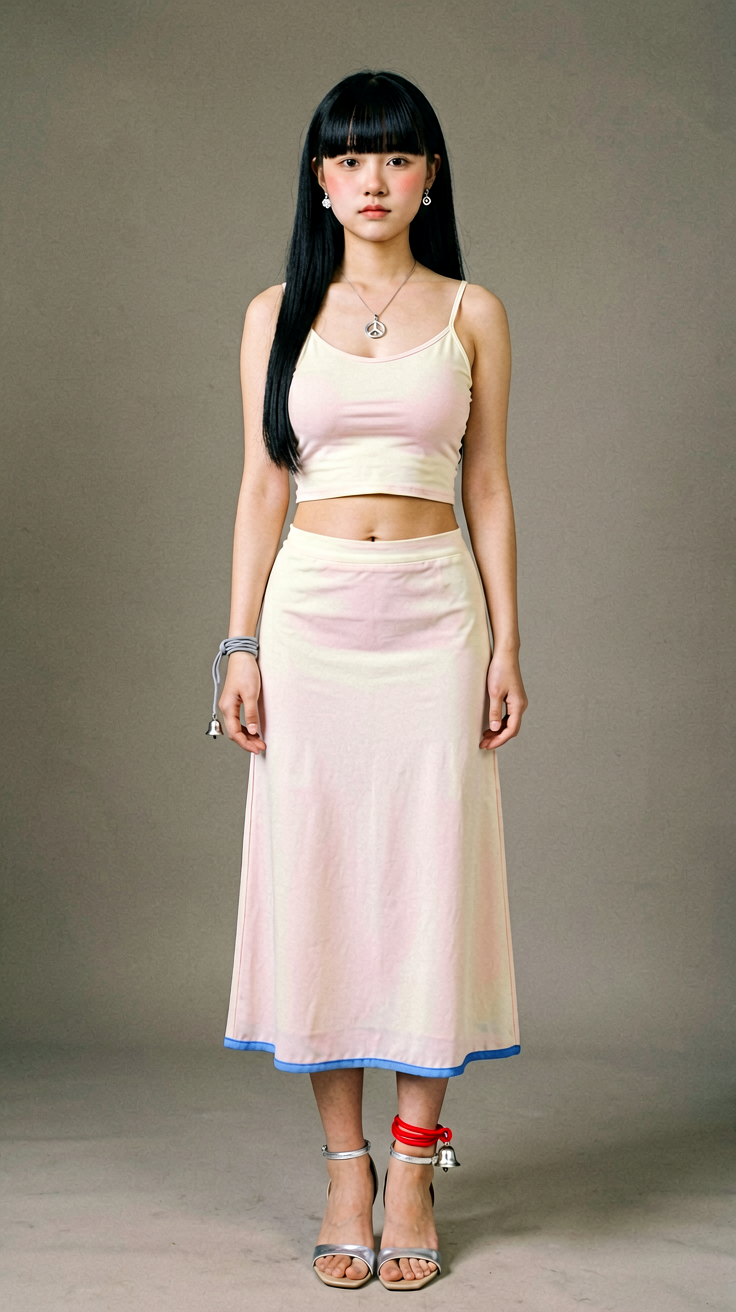
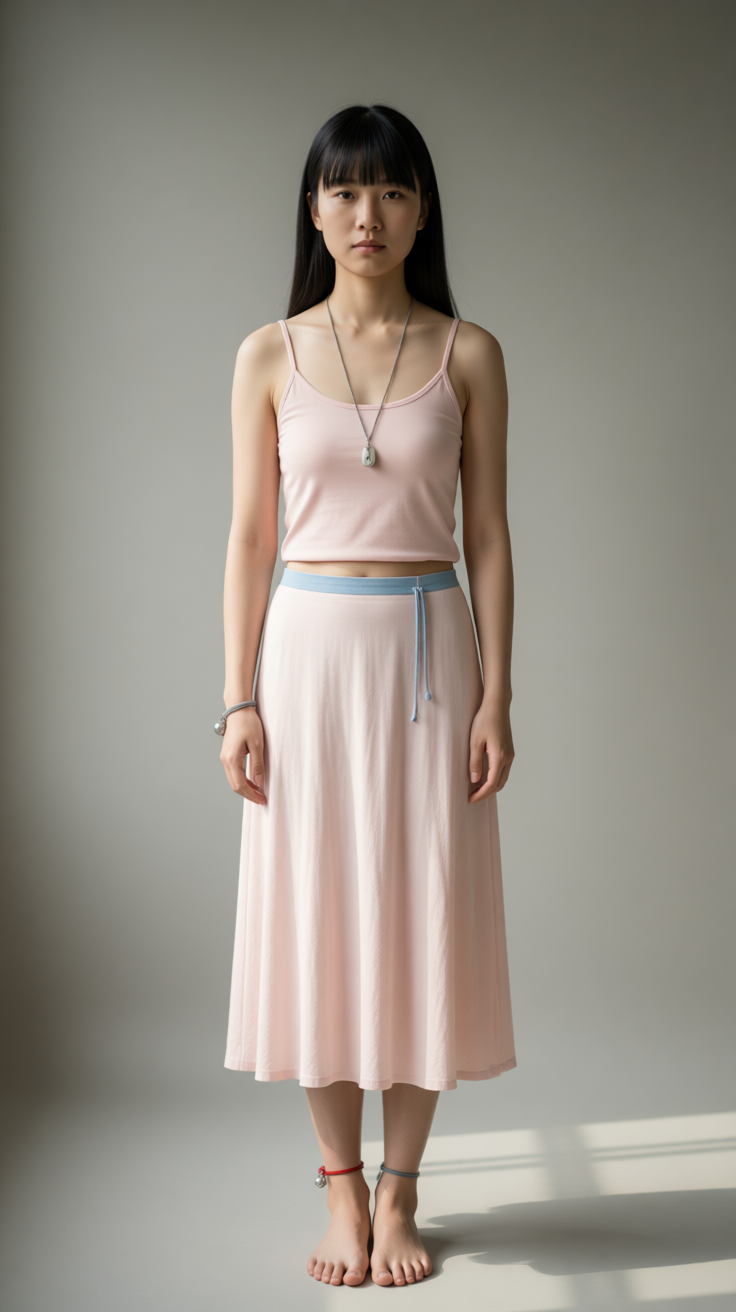
定妆照：吴依依_v3 定稿（粉白小吊带+粉白长裙蓝边+银露趾3cm细跟；左脚踝鲜红细绳恰缠一圈挂珍珠级银铃，右手腕光绳无铃；脸部圆润贴合参考）；角色视觉设定卡同步更新吴依依妆造锚定词

diff --git a/01_大纲/狐渡_角色视觉设定.md b/01_大纲/狐渡_角色视觉设定.md
@@ -66,21 +66,20 @@
 ## 吴依依（苗女）
 
 **长相（固定词）**
-> 20 岁前后南方苗家姑娘，清冷安静，**苗装简化版**（不做廉价民族服堆料：素色长裙＋少量银饰/蜡染纹样即可），话极少（全剧只 2 句台词）
+> 20 岁前后南方苗家姑娘，清冷安静，圆润软脸（宽颊、小鼻、齐刘海），皮肤白净不精致；**苗装简化版**（不做廉价民族服堆料：素色长裙＋少量银饰/蜡染纹样即可），话极少（全剧只 2 句台词）
 
 **锚物（记忆点，高清必给）**
 - **脚踝红绳系小铃**（她的登场暗号；响度纪律全季 3 次：E10 远景一声/E21 足部特写/E22 最响一响即止——画面里铃必须清晰可见；铃为珍珠级约 0.8cm，清晰但绝不抢镜）
 - 腕上细绳（虫影＝烛光绳影错觉，**永不给真虫画面**）
 
 **妆造锚定词（出图固定规格，勿漂移）**
-- 发型：**齐刘海＋双侧直发垂到胸前（发在身前，不甩背后）**（无辫无髻，以定妆照 `吴依依.png` 为准）
-- 服装（上下两截，全黑）：**黑色无袖上衣（双肩/两臂整个露出，V 领，V 口蓝色包边）** ＋ **黑色长裙，下摆蓝色包边宽约 10cm**（露出 155cm/80 斤的瘦小体型）
+- 发型：**齐刘海＋双侧直发垂到胸前（发在身前，不甩背后）**（无辫无髻，以定妆照 `吴依依_v3.png` 为准）
+- 服装（上下两截，粉白两色）：**粉白色小吊带背心（细肩带双肩/两臂整个露出，保守圆领，到自然腰线收，露出一段平坦小腹）** ＋ **粉白色长裙，下摆蓝色包边宽约 10cm**（露出 155cm/80 斤的瘦小体型，D 罩杯）
 - 银饰：少量旧哑光——小银耳环＋**银质平安锁挂坠（短细链，锁头挂在胸前上方不垂长）**，不堆料
-- 腕绳：**一只手腕系一根旧布细绳，绳上不挂铃铛/饰物（光绳）**（虫影锚物）
-- 腕绳：**一只手腕系一根旧布细绳**（虫影锚物），无手镯无手表
-- 凉鞋：**黑色高级感细带高跟凉鞋（露趾款，3cm 细跟，小脚趾清晰可见，不遮挡脚趾）**，34 码小脚
-- 体态：全身帧正常站立；行走帧**一脚落地自然步态**，不悬浮
-- 红绳：**只系左脚脚踝**（右脚光素无绳无铃）
+- 腕绳：**一只手腕系一根旧布细绳，绳上无铃铛/饰物/流苏（光绳）**（虫影锚物），无手镯无手表
+- 凉鞋：**银色细带高跟凉鞋（露趾款，3cm 细跟，小脚趾清晰可见，不遮挡脚趾）**，34 码小脚
+- 体态：全身帧正常站立（双脚落地，非行走步态）；行走帧**一脚落地自然步态**，不悬浮
+- 红绳：**只系左脚脚踝，鲜红细绳缠一圈，挂一枚珍珠级银铃**（右脚光素无绳无铃）
 
 **脚踝红绳银铃（固定词，全季不变，出图 i2i 参考锚）**
 > **细细的红绳**，**挂一枚银质小铃铛**，铃**珍珠级（约 0.8cm，米粒大小，旧哑光不显眼）**；系在**左脚**脚踝（红绳绕一圈，**右脚**光素无绳无铃）；银铃旧哑光、胶片颗粒、自然光、无磨皮、不精致
